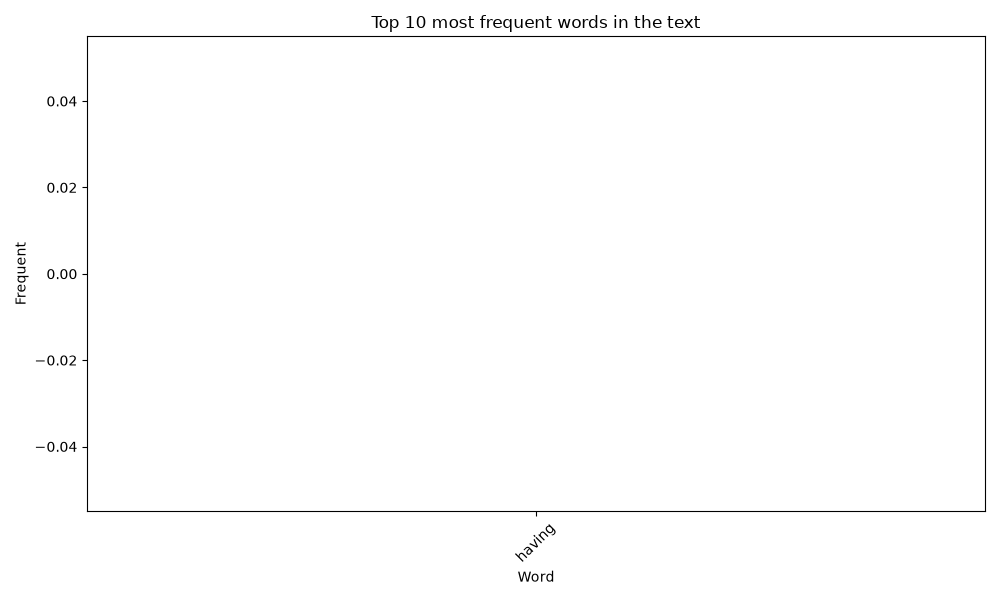
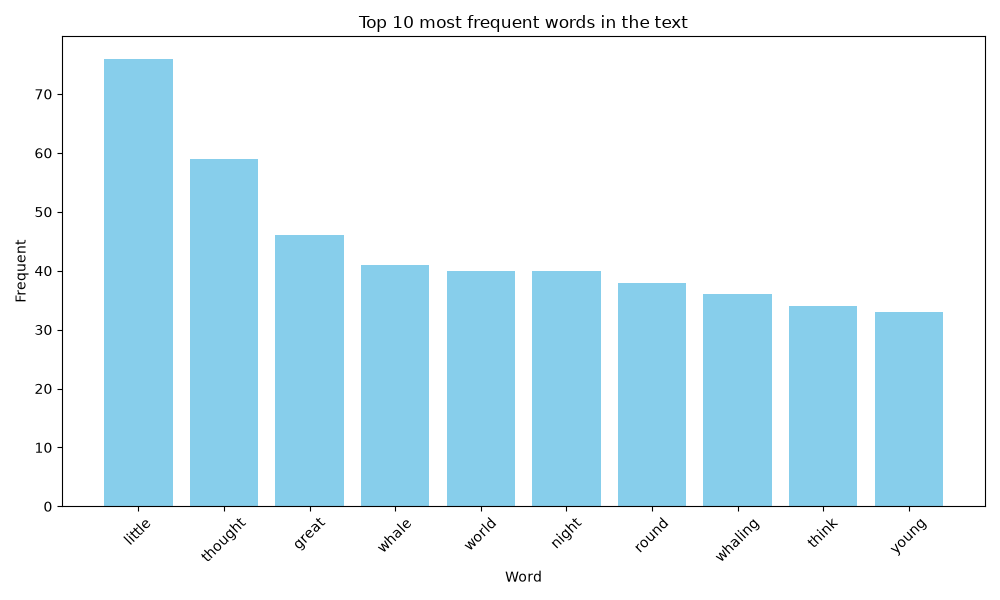
fixed frequency problem

diff --git a/src/evaluate.py b/src/evaluate.py
@@ -81,7 +81,7 @@ def analyze_game_data(save_to_file=False):  # analysis function
         lambda w: props.get(w, {}).get("syllables_count"))
 
     df["frequency"] = df["word"].apply(
-        lambda w: props.get(w, {}).get("frequenzies"))
+        lambda w: props.get(w, {}).get("frequencies"))
 
     df["pos"] = df["word"].apply(
         lambda w: props.get(w, {}).get("pos"))
@@ -217,20 +217,20 @@ def avg_syllables_by_length_with_plot(file):
 
     df["syllables"] = pd.to_numeric(df["syllables"], errors="coerce") #make syllables to numbers
 
-    result = df.groupby("length")["syllables"].mean().round(3) #calculate average
+    result = df.groupby("length")["syllables"].mean().round(3) #calculate average, sort by heigth and round
 
     plt.figure(figsize=(10, 6)) #creates diagramm
     plt.bar(result.index, result.values, color="skyblue")
-    plt.title("Average number of syllables per word")
-    plt.xlabel("Word length (number of letters)")
-    plt.ylabel("Average syllables")
+    plt.title("Average number of syllables per word") #title
+    plt.xlabel("Word length (number of letters)") #xlabel
+    plt.ylabel("Average syllables") #ylabel
     plt.tight_layout()
 
-    data_folder = Path(__file__).resolve().parent.parent / "data" / "tables_and_charts" #save diagramm
-    plt.savefig(data_folder / "avg_syllables_by_length.png")
+    data_folder = Path(__file__).resolve().parent.parent / "data" / "tables_and_charts" #set the folder to save it
+    plt.savefig(data_folder / "avg_syllables_by_length.png") #save it
     plt.close()
 
-    print("Diagramm 'avg_syllables_by_length.png' wurde erstellt.")
+    print("Diagramm avg_syllables_by_length.png wurde erstellt.") 
     return result
 
 if __name__ == "__main__":
@@ -287,7 +287,7 @@ def top_10_words_with_plot(file):
     df = pd.DataFrame([ #builds dataframe
         {
             "word": w,
-            "frequency": words[w].get("frequenzies"),
+            "frequency": words[w].get("frequencies"),
             #"daily": words[w].get("daily_frequenzy")  #if we want the daily usage
         }
         for w in words.keys()
@@ -321,7 +321,7 @@ def calculate_mean_elimination_rate_per_hint():
     avg_elimination_rates = {"syllables_count": 0, "frequencies": 0, "pos":0, "starting_letter":0, "vowel_count": 0}
     properties = rp("../data/propertie_dict.pkl")
     possible_solutions = 1423
-    for i in range(3): #3 times, for sllaylbles, frequenzies and pos
+    for i in range(3): #3 times, for sllaylblecies and pos
         avg_elimination_rate = 0
         one_rate_per_value = set() #
         propertie_dict = {}
